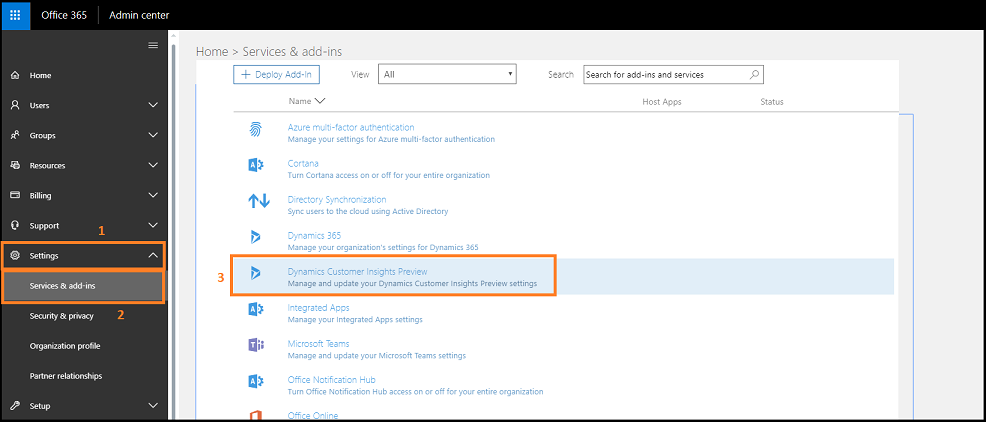
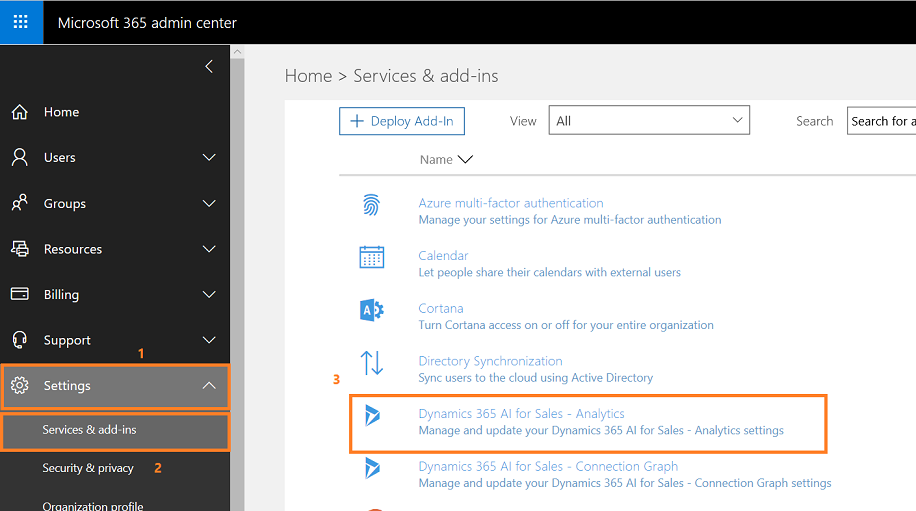
updated WkW and exchange

Changed region(s): [[0.0, 0.0, 1.0, 1.0], [0.0, 0.154, 0.0917, 0.3389]]

diff --git a/ai-docs/sales/configure-enable-sales-insights-addon.md b/ai-docs/sales/configure-enable-sales-insights-addon.md
@@ -224,6 +224,22 @@ Who knows whom feature is available under Connection insights configuration page
 5. Select **Save**.<br>
    The Who Knows Whom is configured and ready to use in your organization.<br>
 
+After you enable the Who knows whom feature in your organization, verify that the connection graph is enabled in the admin center. This allows the [!INCLUDE[pn_dynamics_crm](../includes/pn-dynamics-crm.md)] to collect the communication and collaboration details of users from exchange server.<br>
+> [!NOTE]
+> Contact your Office 365 administrator to enable Dynamics 365 AI for Sales connection graph if you do not have sufficient privileges to enable. 
+ 
+To configure Dynamics 365 AI for Sales connection graph, follow these steps:<br>
+
+1. Go to **Admin** center.<br>
+    ![Admin center](media/sales-insights-addon-admincenter.png "Admin center")<br>
+2. Select **Settings** > **Services & add-ins** > **Dynamics 365 AI for Sales – Connection Graph**.<br>
+    ![Select connection graph option](media/sales-insights-addon-admincenter-connection-graph-option.png "Select connection graph option")<br>
+3. Read the description and configure the Dynamics 365 AI for Sales – Connection Graph settings as **on**.<br>
+    ![Enable and save connection graph](media/sales-insights-addon-admincenter-connection-graph-enable.png "Enable and save connection graph")<br>
+4. (Optional) If you do not want to collect information any group of users in your organization, add the group ID in the text box.<br> 
+    ![Enable and save connection graph](media/sales-insights-addon-admincenter-connection-graph-exclude-group.png "Enable and save connection graph")<br>
+5. Select **Save**.
+
 > [!NOTE]
 > For more information about Who knows whom, see [Get introduced to lead](../sales/who-knows-whom.md)
 <!--
@@ -242,17 +258,17 @@ If you don't want to use the Sales insights add-on features for your organizatio
     > If you want to install Sales insights add-on in future, makesure that you uninstall the **SalesInsightsAddOn** package too after uninstalling Relationship analytics and Predictive lead scoring.
 -->
 
-## Enable Exchange Data
+## Enable Exchange Data for Analytics features
 
-Enabling Exchange Data allows [!INCLUDE[pn_dynamics_crm](../includes/pn-dynamics-crm.md)] to collect valuable information regarding communications, such as emails and meetings for users in your organization from Exchange. To collect this information, you must provide privileges to connect to exchange server through Admin center.
+Enabling Exchange Data allows [!INCLUDE[pn_dynamics_crm](../includes/pn-dynamics-crm.md)] to collect valuable information regarding communications, such as emails and meetings for users in your organization from Exchange server. This data is used in analytics features for salespeople and sales managers. To collect this information, you must provide privileges to connect to the exchange server through the Admin center.
 
 1. Go to **Admin** center.<br>
     ![Admin center](media/sales-insights-addon-admincenter.png "Admin center")<br>
 
-2. Select **Settings** > **Services & add-ins** > **Dynamics Customer Insights Preview**.<br>
+2. Select **Settings** > **Services & add-ins** > **Dynamics 365 AI for Sales – Analytics**.<br>
     ![Select customer insights preview option](media/sales-insights-addon-admincenter-customer-insights-preview.png "Select customer insights preview option")<br>
 
-3. Configure the Dynamics Customer Insights Preview to **on** and select **Save**.<br>
+3. Read the description and configure the Dynamics 365 AI for Sales – Analytics settings as **on** and select **Save**.<br>
     ![Enable and save customer insights preview option](media/sales-insights-addon-admincenter-customer-insights-preview-settings.png "Enable and save customer insights preview option")<br>
 
     Now you can connect to exchange server to collect data.
